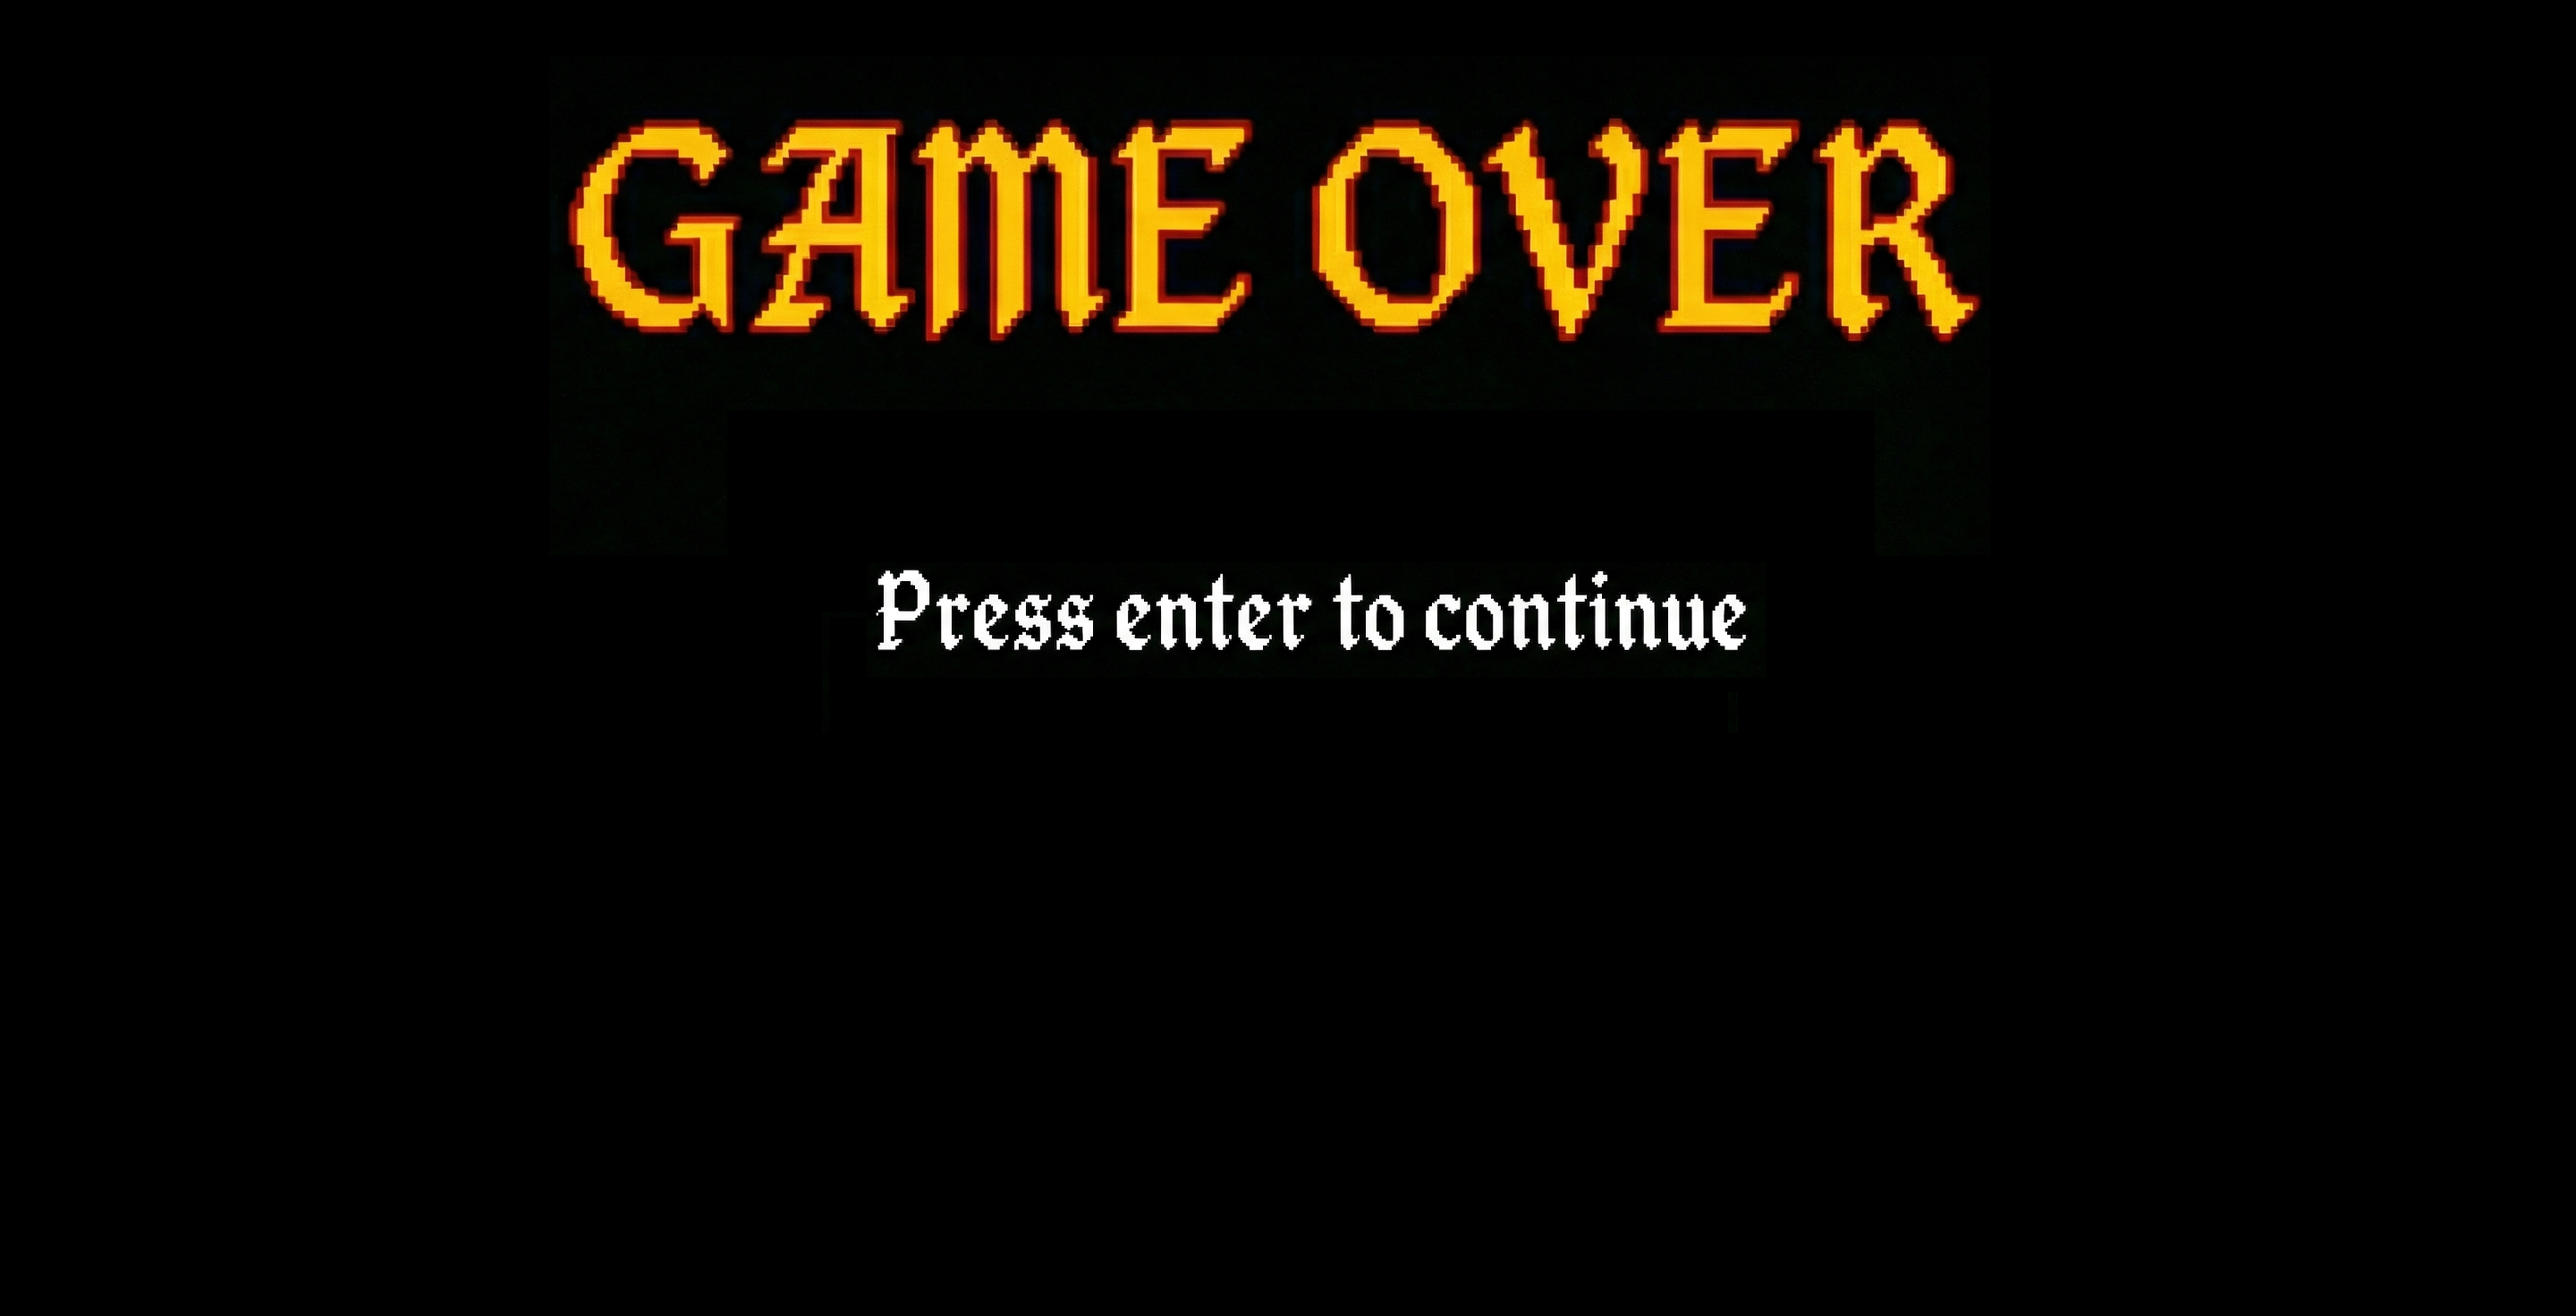
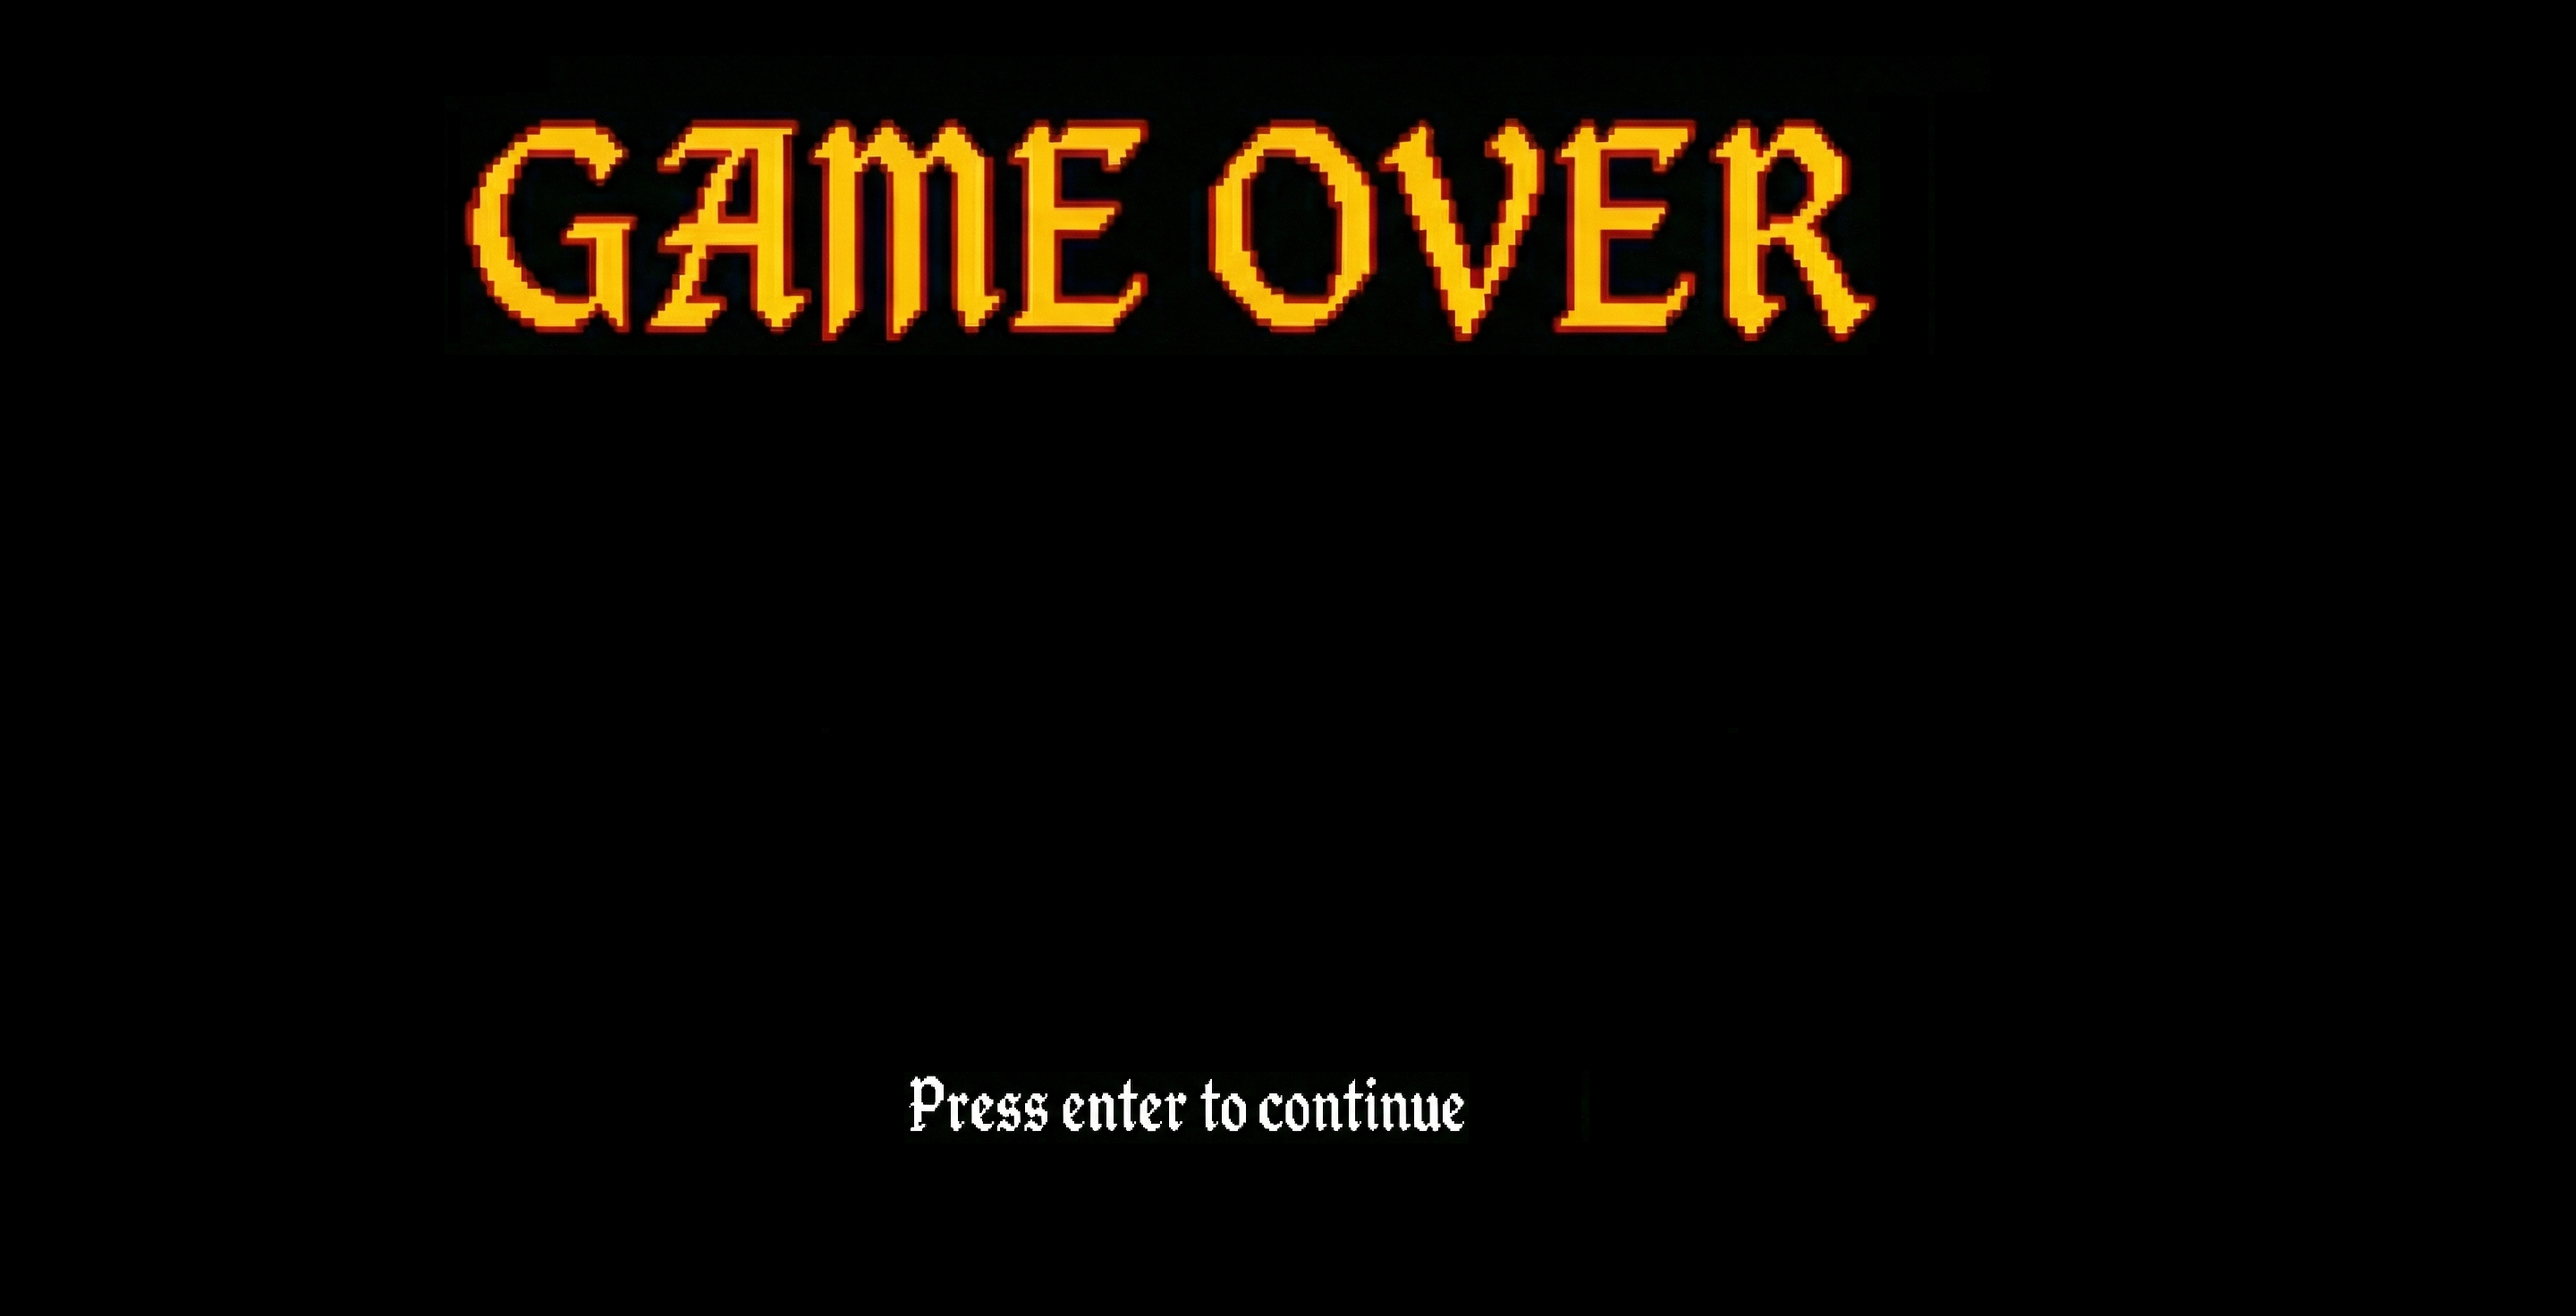
Implemented score in end game screen

Changed region(s): [[0.1562, 0.0625, 0.7812, 0.2812], [0.3438, 0.4375, 0.6875, 0.5], [0.3438, 0.8125, 0.5625, 0.875]]

diff --git a/src/main/java/it/unibo/jrogue/boundary/GameOverGUI.java b/src/main/java/it/unibo/jrogue/boundary/GameOverGUI.java
@@ -1,8 +1,13 @@
 package it.unibo.jrogue.boundary;
 
 import javafx.geometry.Pos;
+import javafx.scene.effect.DropShadow;
 import javafx.scene.layout.*;
 import javafx.scene.image.Image;
+import javafx.scene.paint.Color;
+import javafx.scene.text.Font;
+import javafx.scene.control.Label;
+import javafx.scene.text.FontWeight;
 
 /**
  * This class refers to the GameOver Boundary.
@@ -10,12 +15,14 @@ import javafx.scene.image.Image;
 public class GameOverGUI {
     private static final String BACKGROUND_PATH = "GameOver.png";
     private final VBox rootLayout;
+    private final Label scoreLabel;
 
     /**
      * Constructor for GameOverGUI.
      * */
     public GameOverGUI() {
         this.rootLayout = new VBox();
+        this.scoreLabel = new Label();
         initGraphics();
     }
 
@@ -33,7 +40,16 @@ public class GameOverGUI {
                 new BackgroundSize(100, 100, true, true, true, true)
         );
         rootLayout.setBackground(new Background(background));
+        scoreLabel.setFont(Font.font("Consolas", FontWeight.BOLD, 30));
+        scoreLabel.setTextFill(Color.GOLD);
+        scoreLabel.setEffect(new DropShadow(10, Color.BLACK));
+        rootLayout.getChildren().add(scoreLabel);
     }
+
+    public void setScoreLabel(int score){
+        this.scoreLabel.setText("Score: " + score);
+    }
+
     /**
      * getter for the layout.
      *

diff --git a/src/main/java/it/unibo/jrogue/boundary/VictoryGUI.java b/src/main/java/it/unibo/jrogue/boundary/VictoryGUI.java
@@ -1,8 +1,13 @@
 package it.unibo.jrogue.boundary;
 
 import javafx.geometry.Pos;
+import javafx.scene.effect.DropShadow;
 import javafx.scene.layout.*;
 import javafx.scene.image.Image;
+import javafx.scene.paint.Color;
+import javafx.scene.text.Font;
+import javafx.scene.text.FontWeight;
+import javafx.scene.control.Label;
 
 /**
  * This class refers to the GameOver Boundary
@@ -10,12 +15,14 @@ import javafx.scene.image.Image;
 public class VictoryGUI {
     private static final String BACKGROUND_PATH = "VictoryImage.png";
     private final VBox rootLayout;
+    private final Label scoreLabel;
 
     /**
      * Constructor for VictoryGUI.
      * */
     public VictoryGUI() {
         this.rootLayout = new VBox();
+        this.scoreLabel = new Label();
         initGraphics();
     }
 
@@ -33,7 +40,16 @@ public class VictoryGUI {
                 new BackgroundSize(100, 100, true, true, true, true)
         );
         rootLayout.setBackground(new Background(background));
+        scoreLabel.setFont(Font.font("Consolas", FontWeight.BOLD, 30));
+        scoreLabel.setTextFill(Color.GOLD);
+        scoreLabel.setEffect(new DropShadow(10, Color.BLACK));
+        rootLayout.getChildren().add(scoreLabel);
     }
+
+    public void setScoreLabel(int score){
+        this.scoreLabel.setText("Score: " + score);
+    }
+
     /**
      * getter for the layout.
      *

diff --git a/src/main/java/it/unibo/jrogue/controller/VictoryController.java b/src/main/java/it/unibo/jrogue/controller/VictoryController.java
@@ -8,13 +8,15 @@ import javafx.scene.layout.Pane;
 
 public class VictoryController implements InputHandler {
     private final BaseController controller;
+    private final GameController gameController;
     private final VictoryGUI victory = new VictoryGUI();
 
     /**
      * This controller, handles the Victory screen of the game.
      * */
-    public VictoryController(final BaseController controller){
+    public VictoryController(final BaseController controller, final GameController gameController){
         this.controller = controller;
+        this.gameController = gameController;
     }
 
     @Override
@@ -25,8 +27,14 @@ public class VictoryController implements InputHandler {
         }
     }
 
+    public void setScore(){
+        int score = gameController.getPlayer().getGold();
+        this.victory.setScoreLabel(score);
+    }
+
     @Override
     public Pane getView(){
+        setScore();
         return victory.getLayout();
     }
 

diff --git a/src/main/java/it/unibo/jrogue/controller/GameOverController.java b/src/main/java/it/unibo/jrogue/controller/GameOverController.java
@@ -8,13 +8,20 @@ import javafx.scene.layout.Pane;
 
 public class GameOverController implements InputHandler{
     private final BaseController controller;
+    private final GameController gameController;
     private final GameOverGUI gameOver = new GameOverGUI();
 
 /**
  * This controller, handles the GameOver screen of the game.
  * */
-    public GameOverController(final BaseController controller){
+    public GameOverController(final BaseController controller, final GameController gameController){
         this.controller = controller;
+        this.gameController = gameController;
+    }
+
+    public void setScore(){
+        int score = gameController.getPlayer().getGold();
+        this.gameOver.setScoreLabel(score);
     }
 
     @Override
@@ -27,6 +34,7 @@ public class GameOverController implements InputHandler{
 
     @Override
     public Pane getView(){
+        setScore();
         return gameOver.getLayout();
     }
 

diff --git a/src/main/java/it/unibo/jrogue/engine/BaseController.java b/src/main/java/it/unibo/jrogue/engine/BaseController.java
@@ -38,8 +38,8 @@ public final class BaseController {
         this.gameController = new GameController(this);
         this.pauseController = new PauseGameController(this);
         this.inventoryController = new InventoryController(this);
-        this.gameOverController = new GameOverController(this);
-        this.victoryController = new VictoryController(this);
+        this.gameOverController = new GameOverController(this, (GameController) gameController);
+        this.victoryController = new VictoryController(this, (GameController) gameController);
         this.currentController = menuController;
     }
 
